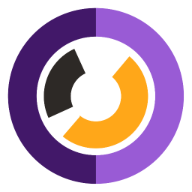
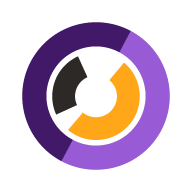
fix: test anon, roadmap incompleto, eventos sin MP, OG meta tags absolutos
- test/[instrument]: fix race condition — wait for auth check before
  enabling Comenzar button so anonymous users always see the datos form
- dashboard: add incompleto (red) color to milestone dot in client roadmap view
- eventos/[id]: remove Mercado Pago redirect; change to registration-only
  flow with coordinator-pays modal; replace number input with +/− stepper
  for better mobile ticket quantity UX
- eventos/[id]/layout + menter/[id]/layout: use absolute OG image URLs
  (APP_URL prefix) so Facebook/WhatsApp/Twitter previews actually load;
  add og:url and siteName to openGraph; update twitter card type
- public: update android-chrome icons (desktop icon update from user)

diff --git a/src/app/eventos/[id]/page.tsx b/src/app/eventos/[id]/page.tsx
@@ -16,6 +16,7 @@ export default function EventoPage() {
   const [inscrito, setInscrito] = useState(false)
   const [mensaje, setMensaje] = useState('')
   const [showAgenda, setShowAgenda] = useState(false)
+  const [showConfirmModal, setShowConfirmModal] = useState(false)
 
   useEffect(() => {
     supabase.auth.getUser().then(({ data }) => setUser(data.user))
@@ -53,41 +54,26 @@ export default function EventoPage() {
 
     if (error || !reg) return
 
-    if (precioFinal === 0) {
-      // Evento gratuito: confirmar directamente
-      setInscrito(true)
-      setMensaje('¡Inscripción confirmada!')
-      const clientName = user.user_metadata?.nombre
-        ? `${user.user_metadata.nombre} ${user.user_metadata.apellidos || ''}`.trim()
-        : user.email?.split('@')[0] || 'Usuario'
-      const eventoFecha = new Date(evento.date + 'T00:00:00').toLocaleDateString('es-PE', {
-        weekday: 'long', day: 'numeric', month: 'long', year: 'numeric',
-      })
-      await dispararEmail('confirmacion_evento', {
-        clientName, clientEmail: user.email,
-        eventoTitulo: evento.title, eventoFecha,
-        eventoHora: evento.start_time?.slice(0, 5) || '',
-        eventoLugar: evento.location_address || evento.meeting_link || '',
-        modalidad: evento.modality, tipoEntrada: ticketSeleccionado.name,
-        cantidad: cantidadTickets, precioTotal: precioFinal,
-        registrationId: reg.id, eventoId: evento.id,
-      })
-    } else {
-      // Evento pagado: crear preferencia MP y redirigir
-      setMensaje('Redirigiendo a MercadoPago…')
-      const res = await fetch('/api/mp/create-preference', {
-        method: 'POST',
-        headers: { 'Content-Type': 'application/json' },
-        body: JSON.stringify({ type: 'event_reg', id: reg.id }),
-      })
-      const data = await res.json()
-      if (data.init_point) {
-        window.location.href = data.init_point
-      } else {
-        setMensaje('Error al iniciar el pago. Tu lugar está reservado — intenta desde el dashboard.')
-        setInscrito(true)
-      }
-    }
+    const clientName = user.user_metadata?.nombre
+      ? `${user.user_metadata.nombre} ${user.user_metadata.apellidos || ''}`.trim()
+      : user.email?.split('@')[0] || 'Usuario'
+    const eventoFecha = new Date(evento.date + 'T00:00:00').toLocaleDateString('es-PE', {
+      weekday: 'long', day: 'numeric', month: 'long', year: 'numeric',
+    })
+
+    await dispararEmail('confirmacion_evento', {
+      clientName, clientEmail: user.email,
+      eventoTitulo: evento.title, eventoFecha,
+      eventoHora: evento.start_time?.slice(0, 5) || '',
+      eventoLugar: evento.location_address || evento.meeting_link || '',
+      modalidad: evento.modality, tipoEntrada: ticketSeleccionado.name,
+      cantidad: cantidadTickets, precioTotal: precioFinal,
+      registrationId: reg.id, eventoId: evento.id,
+    })
+
+    setInscrito(true)
+    setShowConfirmModal(true)
+    setMensaje(precioFinal === 0 ? '¡Inscripción confirmada!' : '¡Registro confirmado!')
   }
 
   const addToGoogleCalendar = () => {
@@ -200,14 +186,18 @@ export default function EventoPage() {
 
             {ticketSeleccionado && (
               <>
-                <div style={{ display: 'flex', gap: 8, marginBottom: 8 }}>
-                  <input type="number" min={1} value={cantidadTickets}
-                    onChange={e => setCantidadTickets(parseInt(e.target.value) || 1)}
-                    placeholder="Cant."
-                    style={{ flex: 1, padding: '8px', borderRadius: 8, border: '1px solid rgba(255,255,255,0.2)', background: 'rgba(255,255,255,0.1)', color: 'white', fontSize: 12 }} />
+                {/* +/- stepper — mejor experiencia móvil */}
+                <div style={{ display: 'flex', alignItems: 'center', gap: 8, marginBottom: 8 }}>
+                  <div style={{ display: 'flex', alignItems: 'center', gap: 0, border: '1px solid rgba(255,255,255,0.3)', borderRadius: 10, overflow: 'hidden' }}>
+                    <button onClick={() => setCantidadTickets(q => Math.max(1, q - 1))}
+                      style={{ width: 36, height: 36, border: 'none', background: 'rgba(255,255,255,0.12)', color: 'white', fontSize: 20, cursor: 'pointer', display: 'flex', alignItems: 'center', justifyContent: 'center', lineHeight: 1 }}>−</button>
+                    <span style={{ minWidth: 32, textAlign: 'center', color: 'white', fontWeight: 700, fontSize: 14 }}>{cantidadTickets}</span>
+                    <button onClick={() => setCantidadTickets(q => q + 1)}
+                      style={{ width: 36, height: 36, border: 'none', background: 'rgba(255,255,255,0.12)', color: 'white', fontSize: 20, cursor: 'pointer', display: 'flex', alignItems: 'center', justifyContent: 'center', lineHeight: 1 }}>+</button>
+                  </div>
                   <input value={codigoDescuento} onChange={e => setCodigoDescuento(e.target.value)}
                     placeholder="Código descuento"
-                    style={{ flex: 2, padding: '8px', borderRadius: 8, border: '1px solid rgba(255,255,255,0.2)', background: 'rgba(255,255,255,0.1)', color: 'white', fontSize: 12 }} />
+                    style={{ flex: 1, padding: '8px', borderRadius: 8, border: '1px solid rgba(255,255,255,0.2)', background: 'rgba(255,255,255,0.1)', color: 'white', fontSize: 12 }} />
                 </div>
                 <div style={{ background: 'rgba(255,255,255,0.1)', borderRadius: 8, padding: '8px 10px', marginBottom: 10, fontSize: 12, color: 'rgba(255,255,255,0.8)' }}>
                   <div style={{ display: 'flex', justifyContent: 'space-between', fontWeight: 800, color: 'white' }}>
@@ -216,9 +206,14 @@ export default function EventoPage() {
                   </div>
                 </div>
                 <button onClick={handleInscribirse}
-                  style={{ width: '100%', padding: '11px', borderRadius: 20, border: 'none', background: precioFinal === 0 ? '#4ade80' : '#ffa719', color: '#2d2926', fontWeight: 800, fontSize: 13, cursor: 'pointer', fontFamily: 'Raleway' }}>
-                  {precioFinal === 0 ? '✅ Confirmar gratis' : `💳 Pagar $${precioFinal.toFixed(2)} USD`}
+                  style={{ width: '100%', padding: '11px', borderRadius: 20, border: 'none', background: '#ffa719', color: '#2d2926', fontWeight: 800, fontSize: 13, cursor: 'pointer', fontFamily: 'Raleway' }}>
+                  {precioFinal === 0 ? '✅ Confirmar registro gratis' : `✅ Registrarme · $${precioFinal.toFixed(2)} USD`}
                 </button>
+                {precioFinal > 0 && (
+                  <p style={{ fontSize: 10, color: 'rgba(255,255,255,0.55)', textAlign: 'center', margin: '6px 0 0' }}>
+                    Coordinarás el pago directamente con el organizador.
+                  </p>
+                )}
               </>
             )}
           </>
@@ -338,6 +333,37 @@ export default function EventoPage() {
                     🔗 Compartir
                   </button>
                 </div>
+{/* Modal de confirmación de registro */}
+{showConfirmModal && (
+  <div style={{ position: 'fixed', inset: 0, background: 'rgba(0,0,0,0.6)', zIndex: 10000, display: 'flex', alignItems: 'center', justifyContent: 'center', padding: 20 }}
+    onClick={() => setShowConfirmModal(false)}>
+    <div style={{ background: 'white', borderRadius: 20, maxWidth: 420, width: '100%', padding: '32px 28px', textAlign: 'center' }}
+      onClick={e => e.stopPropagation()}>
+      <div style={{ fontSize: 52, marginBottom: 12 }}>🎉</div>
+      <h3 style={{ fontFamily: 'Raleway', color: '#421869', fontSize: 20, fontWeight: 800, margin: '0 0 10px' }}>
+        ¡Registro confirmado!
+      </h3>
+      <p style={{ fontSize: 14, color: '#555', lineHeight: 1.6, margin: '0 0 16px' }}>
+        Tu lugar en <strong>{evento?.title}</strong> está reservado.
+        {precioFinal > 0 && ' Contáctate con el organizador para coordinar el medio de pago.'}
+      </p>
+      <p style={{ fontSize: 13, color: '#888', margin: '0 0 24px' }}>
+        Te enviamos un correo de confirmación.
+      </p>
+      <div style={{ display: 'flex', gap: 10 }}>
+        <button onClick={addToGoogleCalendar}
+          style={{ flex: 1, padding: '10px', borderRadius: 20, border: '2px solid #421869', background: 'white', color: '#421869', fontWeight: 700, fontSize: 13, cursor: 'pointer', fontFamily: 'Raleway' }}>
+          📅 Agregar al calendario
+        </button>
+        <button onClick={() => setShowConfirmModal(false)}
+          style={{ flex: 1, padding: '10px', borderRadius: 20, border: 'none', background: '#421869', color: 'white', fontWeight: 700, fontSize: 13, cursor: 'pointer', fontFamily: 'Raleway' }}>
+          Cerrar
+        </button>
+      </div>
+    </div>
+  </div>
+)}
+
 {showAgenda && user && (
   <div style={{ position: 'fixed', inset: 0, background: 'rgba(0,0,0,0.7)', zIndex: 10000, display: 'flex', alignItems: 'center', justifyContent: 'center', padding: 20 }}
     onClick={() => setShowAgenda(false)}>

diff --git a/src/app/test/[instrument]/page.tsx b/src/app/test/[instrument]/page.tsx
@@ -114,6 +114,7 @@ export default function TestPage() {
   const [anonNombre, setAnonNombre]     = useState('');
   const [anonEmail, setAnonEmail]       = useState('');
   const [isAnon, setIsAnon]             = useState(false);
+  const [authChecked, setAuthChecked]   = useState(false);
   // DISC acumula respuestas grupo a grupo
   const [discResponses, setDiscResponses] = useState<DISCGroupResponse[]>([]);
 
@@ -140,6 +141,7 @@ export default function TestPage() {
   useEffect(() => {
     supabase.auth.getUser().then(({ data }) => {
       if (!data.user) setIsAnon(true);
+      setAuthChecked(true);
     });
   }, []);
 
@@ -242,6 +244,7 @@ export default function TestPage() {
         <IntroScreen
           inst={inst}
           instruccion={INSTRUMENT_INSTRUCTIONS[instrumentId] || ''}
+          authChecked={authChecked}
           onStart={() => isAnon ? setPhase('datos') : setPhase('test')}
         />
       </PageShell>
@@ -483,7 +486,7 @@ function DISCStepperPage({
 // ─────────────────────────────────────────────────────────────
 // INTRO SCREEN
 // ─────────────────────────────────────────────────────────────
-function IntroScreen({ inst, instruccion, onStart }: { inst: any; instruccion: string; onStart: () => void }) {
+function IntroScreen({ inst, instruccion, authChecked, onStart }: { inst: any; instruccion: string; authChecked: boolean; onStart: () => void }) {
   return (
     <div style={intro.page}>
       <div style={intro.card}>
@@ -511,9 +514,9 @@ function IntroScreen({ inst, instruccion, onStart }: { inst: any; instruccion: s
           </div>
         </div>
 
-        <button style={{ ...intro.btn, background: '#421869' }} onClick={onStart}>
-          Comenzar
-          <svg width="18" height="18" viewBox="0 0 24 24" fill="none" stroke="currentColor" strokeWidth="2.5" strokeLinecap="round" strokeLinejoin="round"><path d="M5 12h14M12 5l7 7-7 7"/></svg>
+        <button style={{ ...intro.btn, background: authChecked ? '#421869' : '#9e9e9e', cursor: authChecked ? 'pointer' : 'wait' }} onClick={authChecked ? onStart : undefined}>
+          {authChecked ? 'Comenzar' : 'Cargando…'}
+          {authChecked && <svg width="18" height="18" viewBox="0 0 24 24" fill="none" stroke="currentColor" strokeWidth="2.5" strokeLinecap="round" strokeLinejoin="round"><path d="M5 12h14M12 5l7 7-7 7"/></svg>}
         </button>
         <p style={intro.disclaimer}>
           Validado científicamente · {inst.referencia}

diff --git a/src/app/menter/[id]/layout.tsx b/src/app/menter/[id]/layout.tsx
@@ -1,6 +1,9 @@
 import type { Metadata } from "next";
 import { supabase } from "@/app/lib/supabase";
 
+const APP_URL = process.env.NEXT_PUBLIC_APP_URL || 'https://girolab.net'
+const DEFAULT_OG = `${APP_URL}/og-image.jpg`
+
 interface Props {
   params: Promise<{ id: string }>;
 }
@@ -15,27 +18,32 @@ export async function generateMetadata({ params }: Props): Promise<Metadata> {
 
   if (!data) {
     return {
-      title: "Perfil de Menter",
+      title: "Perfil de Menter | Giro Lab",
       description: "Conoce a nuestros Menters especializados en desarrollo humano y bienestar.",
+      openGraph: { images: [{ url: DEFAULT_OG, width: 1200, height: 630 }] },
     };
   }
 
   const nombre = `${data.nombre} ${data.apellidos}`;
   const especialidad = data.especialidad || "Desarrollo Humano";
+  const ogImage = data.avatar_url || DEFAULT_OG;
 
   return {
     title: `${nombre} – Especialista en ${especialidad}`,
     description: `Conoce a ${nombre}, especialista en ${especialidad}. Agenda sesiones y comienza tu proceso de transformación personal o profesional.`,
     openGraph: {
-      title: `${nombre} – Especialista en ${especialidad} | Giro Lab`,
-      description: `Conoce a ${nombre}, especialista en ${especialidad}. Agenda sesiones y comienza tu proceso de transformación.`,
-      images: data.avatar_url ? [{ url: data.avatar_url, width: 400, height: 400, alt: nombre }] : [{ url: "/og-image.jpg", width: 1200, height: 630, alt: "Giro Lab" }],
+      title: `${nombre} – ${especialidad} | Giro Lab`,
+      description: `Agenda sesiones con ${nombre} y comienza tu proceso de transformación.`,
+      url: `${APP_URL}/menter/${id}`,
+      siteName: 'Giro Lab',
+      images: [{ url: ogImage, width: 800, height: 800, alt: nombre }],
+      type: 'profile',
     },
     twitter: {
-      card: "summary",
+      card: 'summary_large_image',
       title: `${nombre} | Giro Lab`,
       description: `Especialista en ${especialidad}. Agenda tu sesión en Giro Lab.`,
-      images: data.avatar_url ? [data.avatar_url] : ["/og-image.jpg"],
+      images: [ogImage],
     },
   };
 }

diff --git a/src/app/eventos/[id]/layout.tsx b/src/app/eventos/[id]/layout.tsx
@@ -1,6 +1,9 @@
 import type { Metadata } from "next";
 import { supabase } from "@/app/lib/supabase";
 
+const APP_URL = process.env.NEXT_PUBLIC_APP_URL || 'https://girolab.net'
+const DEFAULT_OG = `${APP_URL}/og-image.jpg`
+
 interface Props {
   params: { id: string };
 }
@@ -16,26 +19,31 @@ export async function generateMetadata({ params }: Props): Promise<Metadata> {
     return {
       title: "Evento | Giro Lab",
       description: "Descubre eventos de transformación personal y organizacional en Giro Lab.",
+      openGraph: { images: [{ url: DEFAULT_OG, width: 1200, height: 630 }] },
     };
   }
 
+  const ogImage = data.cover_image || DEFAULT_OG;
+  const desc = data.description
+    ? data.description.slice(0, 155)
+    : `Participa en ${data.title}, una experiencia diseñada para impulsar tu crecimiento.`;
+
   return {
     title: `${data.title} – Experiencia de Transformación`,
-    description: data.description
-      ? data.description.slice(0, 155)
-      : `Participa en ${data.title}, una experiencia diseñada para impulsar tu crecimiento y alcanzar nuevos resultados.`,
+    description: desc,
     openGraph: {
       title: `${data.title} | Giro Lab`,
-      description: `Participa en ${data.title}, una experiencia diseñada para impulsar tu crecimiento y alcanzar nuevos resultados.`,
-      images: data.cover_image
-        ? [{ url: data.cover_image, width: 1200, height: 630, alt: data.title }]
-        : [{ url: "/og-image.jpg", width: 1200, height: 630, alt: "Giro Lab" }],
+      description: desc,
+      url: `${APP_URL}/eventos/${params.id}`,
+      siteName: 'Giro Lab',
+      images: [{ url: ogImage, width: 1200, height: 630, alt: data.title }],
+      type: 'website',
     },
     twitter: {
-      card: "summary_large_image",
+      card: 'summary_large_image',
       title: `${data.title} | Giro Lab`,
-      description: `Participa en ${data.title}, una experiencia de transformación.`,
-      images: data.cover_image ? [data.cover_image] : ["/og-image.jpg"],
+      description: desc,
+      images: [ogImage],
     },
   };
 }

diff --git a/src/app/dashboard/page.tsx b/src/app/dashboard/page.tsx
@@ -3331,10 +3331,10 @@ const renderRoadmap = () => {
                     <div style={{ padding: '0 18px' }}>
                       {hitos.map((hito: any, idx: number) => (
                         <div key={hito.id} style={{ display: 'flex', alignItems: 'center', gap: 10, padding: '8px 0', borderBottom: idx < hitos.length - 1 ? '0.5px solid #f5f5f5' : 'none' }}>
-                          <div style={{ width: 10, height: 10, borderRadius: '50%', flexShrink: 0, background: hito.status === 'completado' ? '#1D9E75' : hito.status === 'en_progreso' ? '#EF9F27' : '#e0e0e0' }} />
+                          <div style={{ width: 10, height: 10, borderRadius: '50%', flexShrink: 0, background: hito.status === 'completado' ? '#1D9E75' : hito.status === 'en_progreso' ? '#EF9F27' : hito.status === 'incompleto' ? '#E24B4A' : '#e0e0e0' }} />
                           <span style={{ fontSize: 13, color: '#333', flex: 1 }}>{hito.nombre}</span>
-                          <span style={{ fontSize: 11, padding: '2px 8px', borderRadius: 10, background: hito.status === 'completado' ? '#E1F5EE' : '#f0f0f0', color: hito.status === 'completado' ? '#085041' : '#999', fontWeight: 600 }}>
-                            {hito.status === 'completado' ? 'Completado' : hito.status === 'en_progreso' ? 'En progreso' : 'Pendiente'}
+                          <span style={{ fontSize: 11, padding: '2px 8px', borderRadius: 10, background: hito.status === 'completado' ? '#E1F5EE' : hito.status === 'incompleto' ? '#FCEBEB' : '#f0f0f0', color: hito.status === 'completado' ? '#085041' : hito.status === 'incompleto' ? '#A32D2D' : '#999', fontWeight: 600 }}>
+                            {hito.status === 'completado' ? 'Completado' : hito.status === 'en_progreso' ? 'En progreso' : hito.status === 'incompleto' ? 'Incompleto' : 'Pendiente'}
                           </span>
                         </div>
                       ))}
